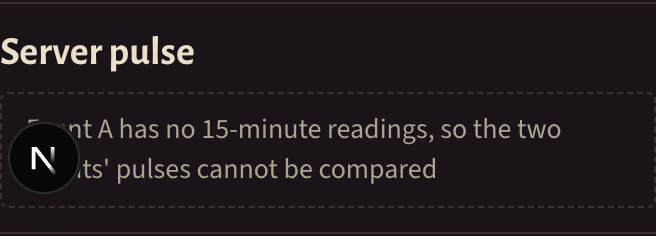
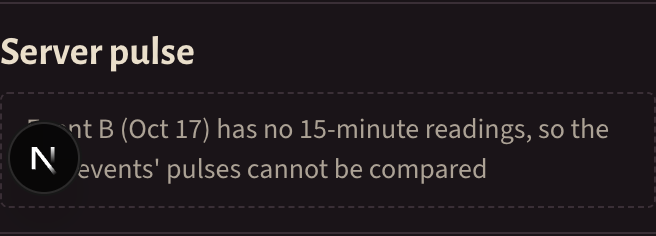
docs(events): UX review section and new screenshots for the fight clock (UX review of #343)

Changed region(s): [[0.1524, 0.5042, 0.9451, 0.6229], [0.122, 0.6525, 0.7622, 0.7712]]

diff --git a/docs/handoff/08zzzzn-fight-clock.md b/docs/handoff/08zzzzn-fight-clock.md
@@ -48,3 +48,22 @@ Plan changes needed: none (the issue holds the picker's design; this repo's plan
 - Fixtures and seed: `scripts/seed-samples.ts` takes an event index (1 or 2); `scripts/seed.ts` samples every event from index 1.
 - `lib/copy-live.ts` is the place for new public copy; it is spread into `ledger`.
 </adjustments>
+
+## UX review (2026-11-16)
+Measured on the local seed (two sampled events, one older unsampled), Chrome at 360, 390, 412, 600, 768, 810, 820, 1024, 1180 and 1280, light and dark; WebKit at 390 (dark) and 820 (light); German and Russian at 360.
+- `document.documentElement.scrollWidth` equals the viewport width on the fight clock, compare (sampled and disabled) and event pages at every width above.
+- Fight clock strip: 15 columns, 19.5 px each at 360, 21.5 at 390, 22.9 at 412, 35 to 58 px from 600 up. Hour labels, the outline and the 6 % minimum bar are legible at 360. The seed has no "no update" slot, so the dashed stub was checked in the code only.
+- Tap targets on the fight clock page: every link and button is at least 44 px (the row link has `min-h-11`; Details is 44 px). On the compare page, the `<select>` fields measure 44 px in WebKit (`.drawn-field`). The alliance name links on the compare and event pages measure 24 to 25 px high; they are older code, not this PR.
+- Contrast of the disabled row's reason text (ink at 70 % on the page): 5.7:1 light, 7.2:1 dark.
+- No truncation and no clipping in German or Russian at 360 (the Russian title wraps to two lines).
+- Fixed:
+  - Compare page, disabled state: the reason said "Event B has no readings" without saying which event B is. It now reads "Event B (Oct 17) has no ...", with the same date format as the A/B labels. `comparePulseOffA` and `comparePulseOffB` take `{when}`; 17 languages updated and stamped (the translator subagents work in the main checkout, so the 34 strings were edited by hand in this worktree: the existing wording plus `({when})` after the event designator).
+  - Fight clock page: a sampled row did not look like a link. The row now shows "During the event ›" under the date (existing copy, previously screen-reader only).
+- Left:
+  - The lead paragraph is four lines at 360 (five in Russian), so the first chart starts at about 620 px of the first screen. Shortening it needs a copy change in 17 languages; left as is.
+  - The disabled reason on the compare page does not say when the section turns on; the fight clock rows do ("they start with the event of ..."). Adding it needs the first sampled event's date in `ComparePulse`.
+  - Alliance name links at 24 to 25 px on the compare and event pages (older code).
+- Screenshots: the six `08zzzzn-*-360.png` files are replaced; `08zzzzn-fight-clock-light-390.png` (Chrome) and `08zzzzn-fight-clock-light-820.png` (WebKit) are new.
+- Merge of origin/dev (#338) resolved: stamps and glossaries kept from both sides, `pnpm check` green after it.
+
+https://github.com/daniro-san/LAPTracker/pull/343
